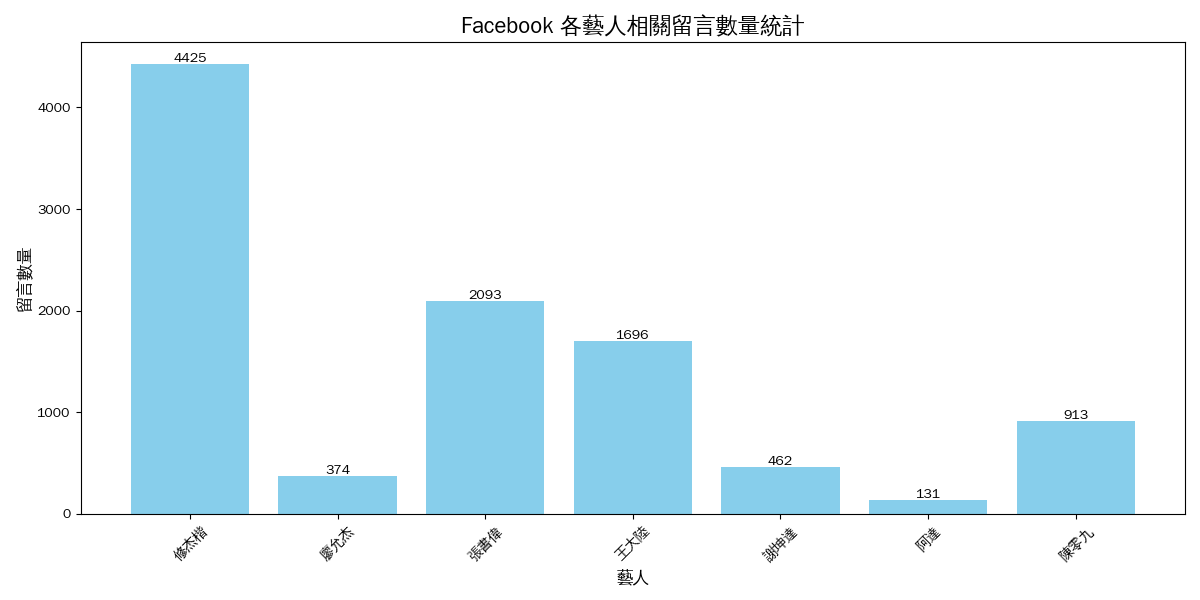
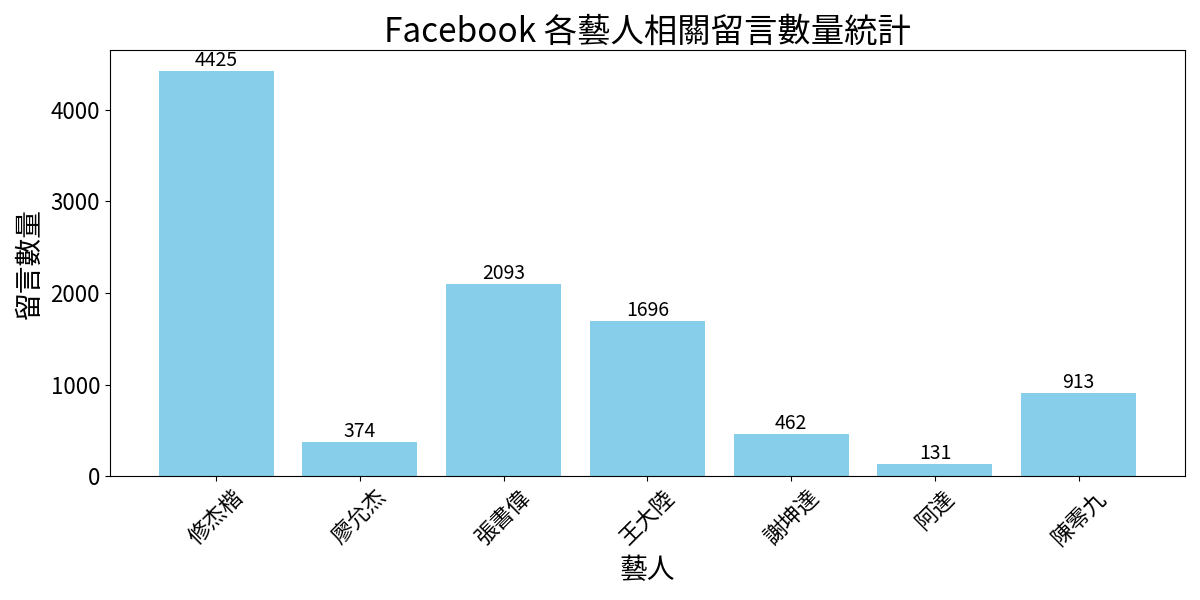
adjust fonts and size of graph of data info

Changed region(s): [[0.0, 0.0, 0.9867, 0.99], [0.74, 0.9, 0.7708, 0.93]]

diff --git a/dcard/data_info/data_graph.py b/dcard/data_info/data_graph.py
@@ -4,13 +4,13 @@ import matplotlib.font_manager as fm
 import os
 
 # Set the font path for Chinese characters
-font_path = '/usr/share/fonts/wenquanyi/wqy-zenhei/wqy-zenhei.ttc'
+font_path = '/usr/share/fonts/noto-cjk/NotoSansCJK-Regular.ttc'
 if os.path.exists(font_path):
     font_prop = fm.FontProperties(fname=font_path)
     plt.rcParams['font.family'] = font_prop.get_name()
 else:
     # Fallback to a default if the specific path doesn't exist (though we checked)
-    plt.rcParams['font.sans-serif'] = ['WenQuanYi Zen Hei', 'SimHei', 'Arial Unicode MS']
+    plt.rcParams['font.sans-serif'] = ['Noto Sans CJK TC', 'WenQuanYi Zen Hei', 'SimHei', 'Arial Unicode MS']
 
 def main():
     # Path to the JSON file
@@ -50,12 +50,13 @@ def main():
         height = bar.get_height()
         plt.text(bar.get_x() + bar.get_width()/2., height,
                  f'{height}',
-                 ha='center', va='bottom')
+                 ha='center', va='bottom', fontsize=14)
 
-    plt.title('Dcard 各藝人相關留言數量統計', fontproperties=font_prop, fontsize=16)
-    plt.xlabel('藝人', fontproperties=font_prop, fontsize=12)
-    plt.ylabel('留言數量', fontproperties=font_prop, fontsize=12)
-    plt.xticks(rotation=45, fontproperties=font_prop)
+    plt.title('Dcard 各藝人相關留言數量統計', fontproperties=font_prop, fontsize=24)
+    plt.xlabel('藝人', fontproperties=font_prop, fontsize=20)
+    plt.ylabel('留言數量', fontproperties=font_prop, fontsize=20)
+    plt.xticks(rotation=45, fontproperties=font_prop, fontsize=16)
+    plt.yticks(fontsize=16)
     
     # Adjust layout to prevent clipping of labels
     plt.tight_layout()

diff --git a/instagram/data_info/data_graph.py b/instagram/data_info/data_graph.py
@@ -4,12 +4,12 @@ import matplotlib.font_manager as fm
 import os
 
 # Set the font path for Chinese characters
-font_path = '/usr/share/fonts/wenquanyi/wqy-zenhei/wqy-zenhei.ttc'
+font_path = '/usr/share/fonts/noto-cjk/NotoSansCJK-Regular.ttc'
 if os.path.exists(font_path):
     font_prop = fm.FontProperties(fname=font_path)
     plt.rcParams['font.family'] = font_prop.get_name()
 else:
-    plt.rcParams['font.sans-serif'] = ['WenQuanYi Zen Hei', 'SimHei', 'Arial Unicode MS']
+    plt.rcParams['font.sans-serif'] = ['Noto Sans CJK TC', 'WenQuanYi Zen Hei', 'SimHei', 'Arial Unicode MS']
 
 def main():
     # Path to the JSON file
@@ -49,12 +49,13 @@ def main():
         height = bar.get_height()
         plt.text(bar.get_x() + bar.get_width()/2., height,
                  f'{height}',
-                 ha='center', va='bottom')
+                 ha='center', va='bottom', fontsize=14)
 
-    plt.title('Instagram 各藝人相關留言數量統計', fontproperties=font_prop, fontsize=16)
-    plt.xlabel('藝人', fontproperties=font_prop, fontsize=12)
-    plt.ylabel('留言數量', fontproperties=font_prop, fontsize=12)
-    plt.xticks(rotation=45, fontproperties=font_prop)
+    plt.title('Instagram 各藝人相關留言數量統計', fontproperties=font_prop, fontsize=24)
+    plt.xlabel('藝人', fontproperties=font_prop, fontsize=20)
+    plt.ylabel('留言數量', fontproperties=font_prop, fontsize=20)
+    plt.xticks(rotation=45, fontproperties=font_prop, fontsize=16)
+    plt.yticks(fontsize=16)
     
     # Adjust layout to prevent clipping of labels
     plt.tight_layout()

diff --git a/facebook/data_info/data_graph.py b/facebook/data_info/data_graph.py
@@ -4,12 +4,12 @@ import matplotlib.font_manager as fm
 import os
 
 # Set the font path for Chinese characters
-font_path = '/usr/share/fonts/wenquanyi/wqy-zenhei/wqy-zenhei.ttc'
+font_path = '/usr/share/fonts/noto-cjk/NotoSansCJK-Regular.ttc'
 if os.path.exists(font_path):
     font_prop = fm.FontProperties(fname=font_path)
     plt.rcParams['font.family'] = font_prop.get_name()
 else:
-    plt.rcParams['font.sans-serif'] = ['WenQuanYi Zen Hei', 'SimHei', 'Arial Unicode MS']
+    plt.rcParams['font.sans-serif'] = ['Noto Sans CJK TC', 'WenQuanYi Zen Hei', 'SimHei', 'Arial Unicode MS']
 
 def main():
     # Path to the JSON file
@@ -49,12 +49,13 @@ def main():
         height = bar.get_height()
         plt.text(bar.get_x() + bar.get_width()/2., height,
                  f'{height}',
-                 ha='center', va='bottom')
+                 ha='center', va='bottom', fontsize=14)
 
-    plt.title('Facebook 各藝人相關留言數量統計', fontproperties=font_prop, fontsize=16)
-    plt.xlabel('藝人', fontproperties=font_prop, fontsize=12)
-    plt.ylabel('留言數量', fontproperties=font_prop, fontsize=12)
-    plt.xticks(rotation=45, fontproperties=font_prop)
+    plt.title('Facebook 各藝人相關留言數量統計', fontproperties=font_prop, fontsize=24)
+    plt.xlabel('藝人', fontproperties=font_prop, fontsize=20)
+    plt.ylabel('留言數量', fontproperties=font_prop, fontsize=20)
+    plt.xticks(rotation=45, fontproperties=font_prop, fontsize=16)
+    plt.yticks(fontsize=16)
     
     # Adjust layout to prevent clipping of labels
     plt.tight_layout()

diff --git a/threads/data_info/data_graph.py b/threads/data_info/data_graph.py
@@ -4,12 +4,12 @@ import matplotlib.font_manager as fm
 import os
 
 # Set the font path for Chinese characters
-font_path = '/usr/share/fonts/wenquanyi/wqy-zenhei/wqy-zenhei.ttc'
+font_path = '/usr/share/fonts/noto-cjk/NotoSansCJK-Regular.ttc'
 if os.path.exists(font_path):
     font_prop = fm.FontProperties(fname=font_path)
     plt.rcParams['font.family'] = font_prop.get_name()
 else:
-    plt.rcParams['font.sans-serif'] = ['WenQuanYi Zen Hei', 'SimHei', 'Arial Unicode MS']
+    plt.rcParams['font.sans-serif'] = ['Noto Sans CJK TC', 'WenQuanYi Zen Hei', 'SimHei', 'Arial Unicode MS']
 
 def main():
     # Path to the JSON file
@@ -49,12 +49,13 @@ def main():
         height = bar.get_height()
         plt.text(bar.get_x() + bar.get_width()/2., height,
                  f'{height}',
-                 ha='center', va='bottom')
+                 ha='center', va='bottom', fontsize=14)
 
-    plt.title('Threads 各藝人相關留言數量統計', fontproperties=font_prop, fontsize=16)
-    plt.xlabel('藝人', fontproperties=font_prop, fontsize=12)
-    plt.ylabel('留言數量', fontproperties=font_prop, fontsize=12)
-    plt.xticks(rotation=45, fontproperties=font_prop)
+    plt.title('Threads 各藝人相關留言數量統計', fontproperties=font_prop, fontsize=24)
+    plt.xlabel('藝人', fontproperties=font_prop, fontsize=20)
+    plt.ylabel('留言數量', fontproperties=font_prop, fontsize=20)
+    plt.xticks(rotation=45, fontproperties=font_prop, fontsize=16)
+    plt.yticks(fontsize=16)
     
     # Adjust layout to prevent clipping of labels
     plt.tight_layout()
